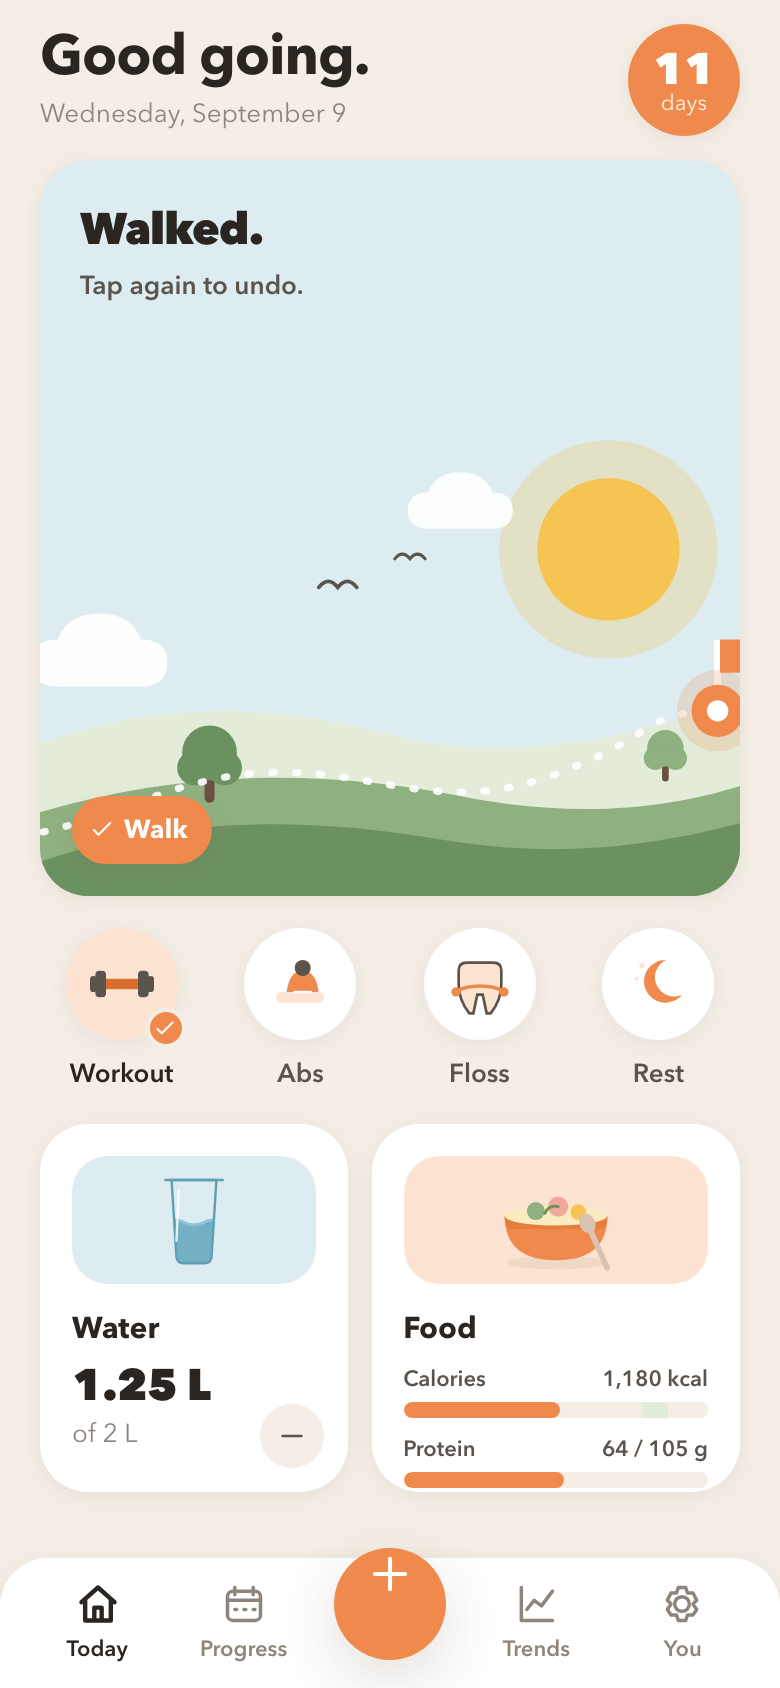
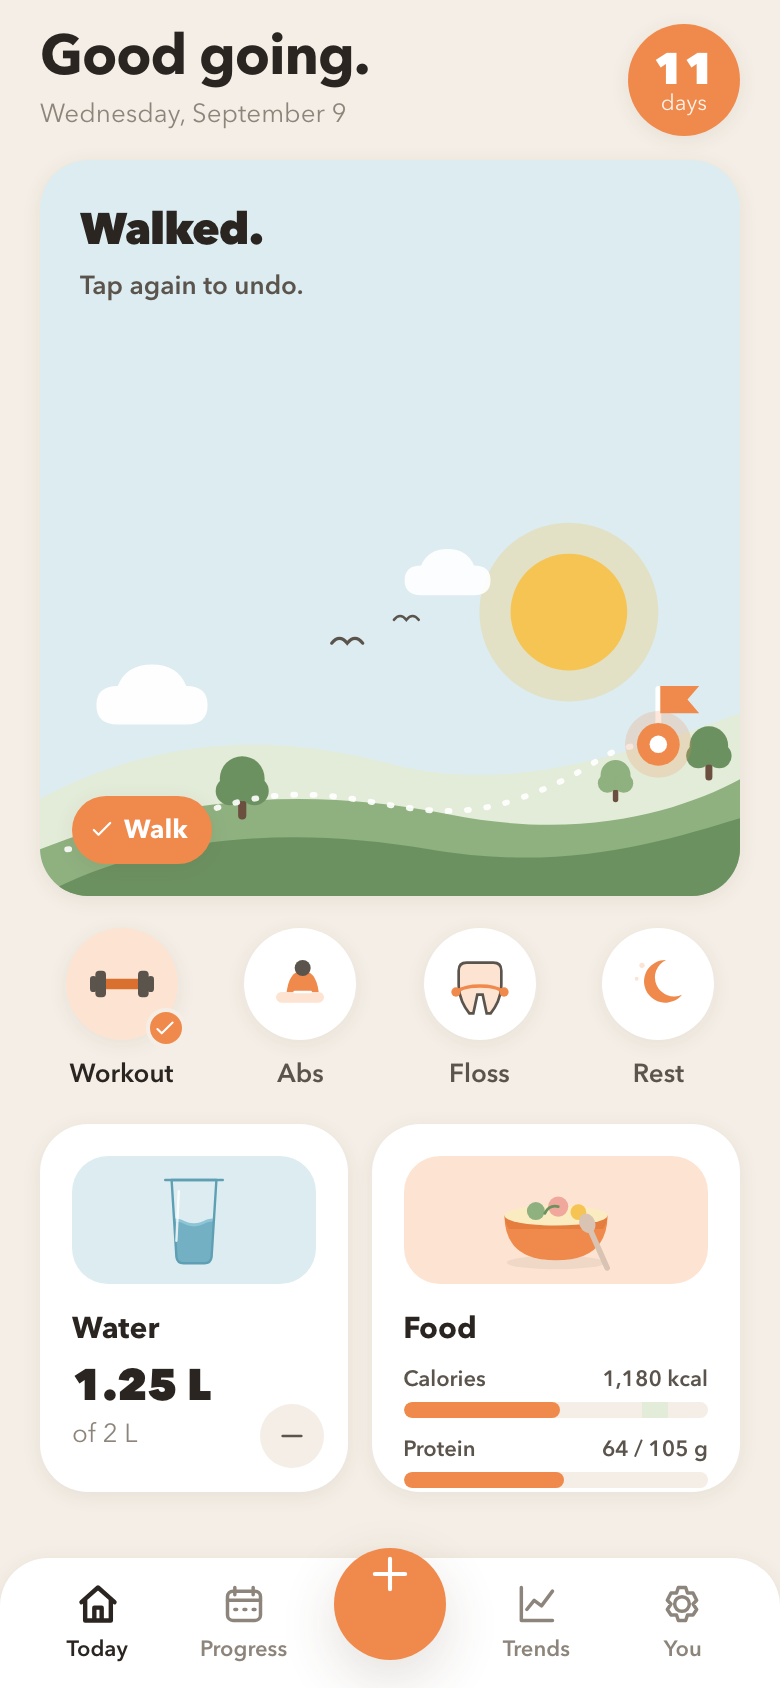
Give the scene more sky so the taller hero shows the flag
Claude-Session: https://claude.ai/code/session_012eUTZr7PRm5q6EK1oDXvWv

Changed region(s): [[0.0308, 0.2464, 0.9538, 0.5237], [0.0308, 0.4621, 0.1231, 0.5237]]

diff --git a/components/Scenes.tsx b/components/Scenes.tsx
@@ -11,10 +11,10 @@ export const walkPath='M14 176C60 172 84 150 128 148S200 166 246 150s40-28 72-28
 export const walkStart={x:14,y:176},walkEnd={x:318,y:122};
 export function Hills({phase='morning',walked=false,celebrate=false,quiet=false,className=''}:{phase?:Phase;walked?:boolean;celebrate?:boolean;quiet?:boolean;className?:string}){
  const night=phase==='night';const sunTone=night?c.card:c.butter;const sunY=phase==='morning'?96:phase==='day'?54:phase==='evening'?104:52;
- return <svg className={`scene ${className}`} viewBox="0 0 360 310" preserveAspectRatio="xMidYMax slice" aria-hidden="true">
-  <rect width="360" height="310" fill={sky[phase]}/><g transform="translate(0 110)">
+ return <svg className={`scene ${className}`} viewBox="0 0 360 400" preserveAspectRatio="xMidYMax slice" aria-hidden="true">
+  <rect width="360" height="400" fill={sky[phase]}/><g transform="translate(0 200)">
   {night&&[[40,30],[90,18],[150,40],[230,22],[290,44],[330,16],[200,70]].map(([x,y],i)=><circle key={i} cx={x} cy={y} r={i%3?1.6:2.4} fill={c.card} opacity=".85"/>)}
-  <g className="sun">{celebrate&&<g className="rays" style={{transformOrigin:`272px ${sunY+110}px`}}>{Array.from({length:12},(_,i)=><rect key={i} x="-3" y="-72" width="6" height="18" rx="3" fill={c.butter} opacity=".7" transform={`translate(272 ${sunY}) rotate(${i*30})`}/>)}</g>}
+  <g className="sun">{celebrate&&<g className="rays" style={{transformOrigin:`272px ${sunY+200}px`}}>{Array.from({length:12},(_,i)=><rect key={i} x="-3" y="-72" width="6" height="18" rx="3" fill={c.butter} opacity=".7" transform={`translate(272 ${sunY}) rotate(${i*30})`}/>)}</g>}
    <circle cx="272" cy={sunY} r="46" fill={sunTone} opacity={night?.12:.28}/>
    <circle cx="272" cy={sunY} r="30" fill={sunTone}/>
    {night&&<circle cx="284" cy={sunY-8} r="26" fill={sky[phase]}/>}
@@ -28,7 +28,7 @@ export function Hills({phase='morning',walked=false,celebrate=false,quiet=false,
   <path d={walkPath} fill="none" stroke={c.card} strokeWidth="3" strokeLinecap="round" strokeDasharray="1 9" opacity=".9"/>
   <g className="flag" transform={`translate(${walkEnd.x} ${walkEnd.y})`}><rect x="-1.5" y="-30" width="3" height="32" rx="1.5" fill={c.card}/><path d="M1 -30h20l-6 7 6 7H1z" fill={c.accent}/></g>
   <g className={`walker ${walked?'is-done':''}`} style={{transform:`translate(${(walked?walkEnd:walkStart).x}px,${(walked?walkEnd:walkStart).y}px)`}}><circle r="11" fill={c.accent}/><circle r="11" fill={c.accent} className="pulse" opacity=".35"/><circle r="4.5" fill={c.card}/></g>
-  {celebrate&&<g className="petals" aria-hidden="true">{[c.accent,c.rose,c.butter,c.lilac,c.sage,c.sky].flatMap((tone,i)=>[0,1,2].map(j=><rect key={i*3+j} className="petal" x={20+((i*3+j)*19)%330} y={-124} width="7" height="12" rx="3" fill={tone} style={{animationDelay:`${((i*3+j)%7)*.16}s`}}/>))}</g>}
+  {celebrate&&<g className="petals" aria-hidden="true">{[c.accent,c.rose,c.butter,c.lilac,c.sage,c.sky].flatMap((tone,i)=>[0,1,2].map(j=><rect key={i*3+j} className="petal" x={20+((i*3+j)*19)%330} y={-214} width="7" height="12" rx="3" fill={tone} style={{animationDelay:`${((i*3+j)%7)*.16}s`}}/>))}</g>}
   </g>
  </svg>;
 }

diff --git a/scripts/art.tsx b/scripts/art.tsx
@@ -11,7 +11,7 @@ for(const [name,size] of [['icon-192',192],['icon-512',512],['apple-touch-icon',
 const maskable=renderToStaticMarkup(<Brand padded={false}/>).replace(/^<svg[^>]*>/,'<svg x="56" y="56" width="400" height="400" viewBox="0 0 512 512">');
 await sharp(Buffer.from(`<svg xmlns="http://www.w3.org/2000/svg" viewBox="0 0 512 512"><rect width="512" height="512" fill="${color.ground}"/>${maskable}</svg>`)).resize(512,512).png().toFile('public/icon-maskable.png');
 const scene=renderToStaticMarkup(<Hills phase="morning"/>).replace(/^<svg[^>]*>/,'').replace(/<\/svg>$/,'');
-await writeFile('public/art/gate.svg',`<svg xmlns="http://www.w3.org/2000/svg" viewBox="0 0 360 310" class="scene gate-scene" aria-hidden="true">${scene}</svg>`);
-const splash=`<svg xmlns="http://www.w3.org/2000/svg" width="1170" height="2532"><defs><clipPath id="card"><rect x="60" y="966" width="1050" height="600" rx="72"/></clipPath></defs><rect width="1170" height="2532" fill="${color.ground}"/><g clip-path="url(#card)"><svg x="60" y="966" width="1050" height="600" viewBox="0 0 360 310" preserveAspectRatio="xMidYMax slice">${scene}</svg></g></svg>`;
+await writeFile('public/art/gate.svg',`<svg xmlns="http://www.w3.org/2000/svg" viewBox="0 0 360 400" class="scene gate-scene" aria-hidden="true">${scene}</svg>`);
+const splash=`<svg xmlns="http://www.w3.org/2000/svg" width="1170" height="2532"><defs><clipPath id="card"><rect x="60" y="966" width="1050" height="600" rx="72"/></clipPath></defs><rect width="1170" height="2532" fill="${color.ground}"/><g clip-path="url(#card)"><svg x="60" y="966" width="1050" height="600" viewBox="0 0 360 400" preserveAspectRatio="xMidYMax slice">${scene}</svg></g></svg>`;
 await writeFile('public/art/splash.svg',splash);await sharp(Buffer.from(splash)).png().toFile('public/splash-1170x2532.png');
 console.log('wrote brand assets');

diff --git a/public/sw.js b/public/sw.js
@@ -1,4 +1,4 @@
-const VERSION='flaccid75-shell-3651f573f280';
+const VERSION='flaccid75-shell-b850b73684ea';
 self.addEventListener('install',event=>{event.waitUntil(caches.open(VERSION).then(async cache=>{await cache.addAll(['/','/manifest.webmanifest','/icon-192.png','/icon-512.png','/apple-touch-icon.png','/icon.svg','/icon-maskable.png','/splash-1170x2532.png']);const response=await cache.match('/');const html=await response.text();const assets=[...new Set([...html.matchAll(/(?:src|href)="([^" ]+\.(?:js|css)(?:\?[^" ]*)?)"/g)].map(m=>m[1]))].filter(x=>x.startsWith('/assets/'));await cache.addAll(assets);}));});
 self.addEventListener('activate',event=>{event.waitUntil((async()=>{for(const key of await caches.keys())if(key.startsWith('flaccid75-')&&key!==VERSION)await caches.delete(key);await self.clients.claim();})());});
 self.addEventListener('fetch',event=>{const request=event.request;const url=new URL(request.url);if(request.method!=='GET'||url.origin!==self.location.origin||url.pathname.startsWith('/api/'))return;
